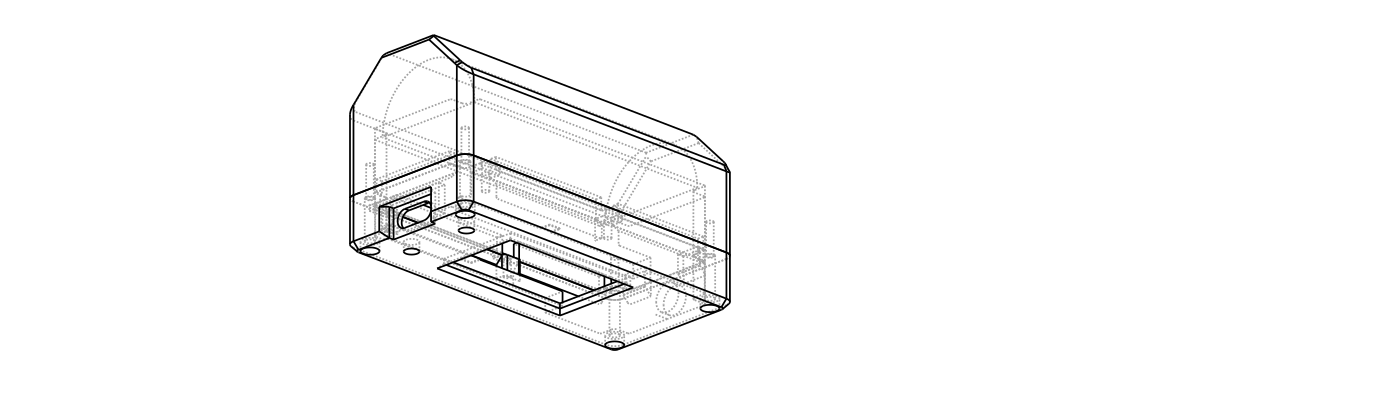
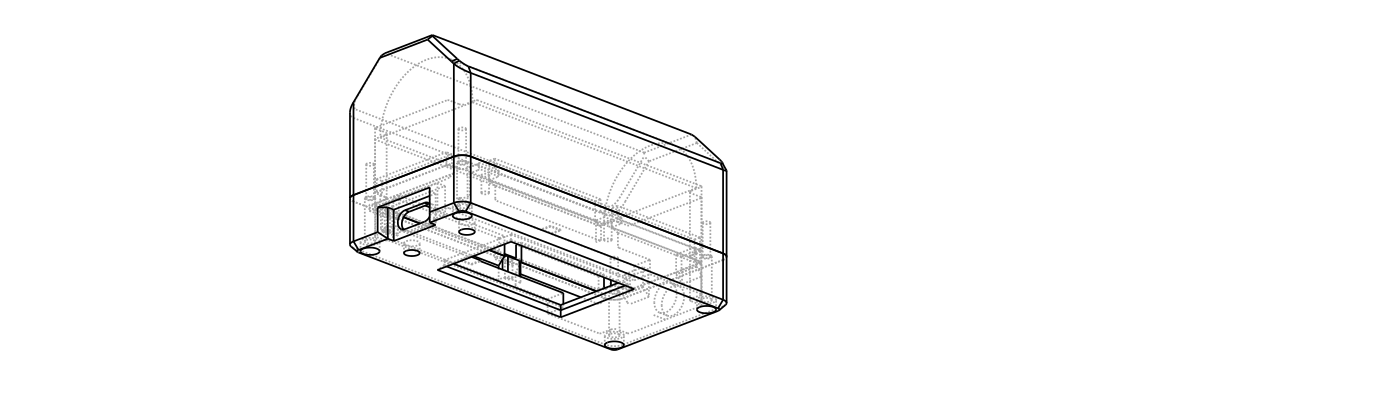
Tighten case envelope to bring inner components closer together
INNER_W's pad beyond the bare cell/board envelope was bisected against
OCCT's own fillet solver for the retainer boss dead zone: +2.0mm and
+2.5mm both fail, +3.0mm is the first value that solves, down from the
previous +4.0mm. BOSS_END_MARGIN (cell end-stop to corner screw post)
tightened from 0.5mm to 0.3mm, kept above typical FDM print tolerance
rather than the ~0.1mm geometry alone would allow.

Case shrinks from 80.1 x 35.7 x 42.3mm to 79.7 x 34.7 x 42.3mm. All 138
verify.py checks still pass. README updated to match.

Changed region(s): [[0.2457, 0.0929, 0.5221, 0.8357]]

diff --git a/case.py b/case.py
@@ -437,8 +437,15 @@ SCREW_LEN = 16.0           # M2x16 SHCS for the case halves
 SCREW_ENGAGE = SCREW_LEN - PLATE_INNER_H
 
 # --- Derived plan dimensions ------------------------------------------------
-# Width is set by the cell (which is wider than the board) plus side walls.
-INNER_W = max(BOARD_W + 2 * BOARD_CLEARANCE, CELL_D + CELL_CLEARANCE) + 4.0
+# Width is set by the cell (which is wider than the board) plus side walls,
+# plus enough pad beyond the bare cell/board envelope for the retainer boss
+# dead zone (RAIL_OUTER_Y..RETAINER_BOSS_Y1) to carry its own concave wall
+# fillet (RETAINER_BOSS_WALL_FILLET). Bisected against OCCT's fillet solver
+# directly: +2.0 fails (BRep_API: command not done on the retainer boss
+# fillet in build_plate()), +2.5 also fails, +3.0 is the first value that
+# solves -- so this is pinned at the solver's own limit, not a target
+# picked in advance. Re-bisect if that fillet's edge geometry moves.
+INNER_W = max(BOARD_W + 2 * BOARD_CLEARANCE, CELL_D + CELL_CLEARANCE) + 3.0
 OUTER_W = INNER_W + 2 * WALL
 
 # The registration shoulder is built out to the plate's own wall (rather
@@ -458,7 +465,14 @@ SHOULDER_OUTER_Y = INNER_W / 2
 # Kept to the same order as the other minimal-but-safe clearances in this
 # file (RETAINER_EAR_CORNER_MARGIN etc.), now that the boss itself sits much
 # closer to the corner and no longer needs a generous margin here too.
-BOSS_END_MARGIN = 0.5
+# 0.3mm, not tighter: geometry itself (verify.py) tolerates down to ~0.1mm,
+# but this is a real gap between two separate printed features (the cell's
+# own axial end-stop and the corner screw post), not just a solver
+# tolerance -- and 0.1mm is under a typical FDM nozzle's positional
+# accuracy, so it would round away to a true collision on some printers.
+# 0.3mm keeps real margin against that while still being noticeably
+# tighter than the original 0.5mm.
+BOSS_END_MARGIN = 0.3
 _min_half_len = CELL_FAR_HALF_LEN + BOSS_END_MARGIN + M2_BOSS_D / 2 + SCREW_INSET
 OUTER_L = 2 * max(_min_half_len, BOARD_L / 2 + WALL + 4.0)
 INNER_L = OUTER_L - 2 * WALL

diff --git a/README.md b/README.md
@@ -18,7 +18,7 @@ button bridge as small separately-printed parts) for:
   wall** (see "Why the SMA mount moved to the plate" below)
 - A single **26650** Li-ion cell as the power source
 
-Outer size **80.1 × 35.7 × 42.3 mm**.
+Outer size **79.7 × 34.7 × 42.3 mm**.
 
 ## Files
 
@@ -456,7 +456,7 @@ first-pass mechanical design, not something validated by a real print yet:
 worth a test print of the plate + retainer alone (with a scrap board or a
 3D-printed board mock) before trusting it for the real hardware.
 
-### Why the case is 80.1 mm long
+### Why the case is 79.7 mm long
 
 The insertion shaft spans most of the cavity width, so a screw boss placed
 anywhere within its length would stand in the cell's way. `OUTER_L` is
@@ -476,8 +476,11 @@ stopped needing that offset for axial room.)
 the smallest value that still keeps the boss enclosed, which is what
 shrank the case from 92.7 mm (the previous, arbitrarily generous 6.0 mm
 inset) down to 86.1 mm on its own, before the `CELL_OFFSET_X` change below
-took it to 80.1 mm. Two independent constraints compete, and `SCREW_INSET`
-takes whichever binds tighter:
+took it to 80.1 mm, and a later tightening of `BOSS_END_MARGIN` (0.5 mm →
+0.3 mm — the gap between the cell's own axial end-stop and the corner
+screw post, backed off from the geometric limit of ~0.1 mm to stay above
+typical FDM print tolerance) to 79.7 mm. Two independent constraints
+compete, and `SCREW_INSET` takes whichever binds tighter:
 
 - **Corner tangency**: the boss's closest approach to the outside is along
   the corner's 45° diagonal, where the outer profile is the `CORNER_FILLET`
@@ -741,10 +744,12 @@ the cell entirely: the plate's whole Z-band sits above `CELL_TOP_Z`, so
 unlike a base-mounted hole, axial depth here was never limited by
 `SMA_CLEAR_DEPTH` or the cell's near end at all -- only by the board's own
 far edge, which is much further away. That's what let `CELL_OFFSET_X` go
-to **0** (see above) instead of growing to 6.1mm: **the case is 80.1mm
-long now, 6mm shorter than the 86.1mm it would've been just from the other
-changes this session, and 12.3mm shorter than the 92.4mm a corrected axial
-base mount would have needed.**
+to **0** (see above) instead of growing to 6.1mm: **the case was 80.1mm
+long at that point, 6mm shorter than the 86.1mm it would've been just from
+the other changes this session, and 12.3mm shorter than the 92.4mm a
+corrected axial base mount would have needed.** (A later tightening of
+`BOSS_END_MARGIN` took it down further, to the current 79.7mm — see "Why
+the case is 79.7 mm long" above.)
 
 Two real constraints replace the old cell-clearance one:
 
